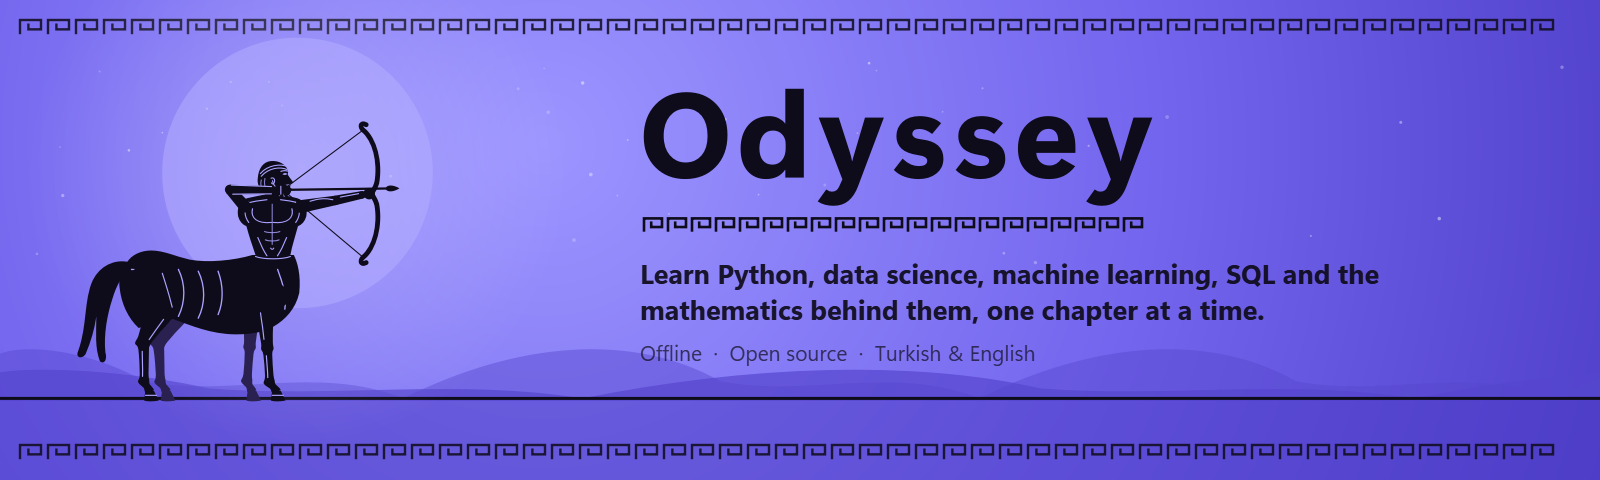
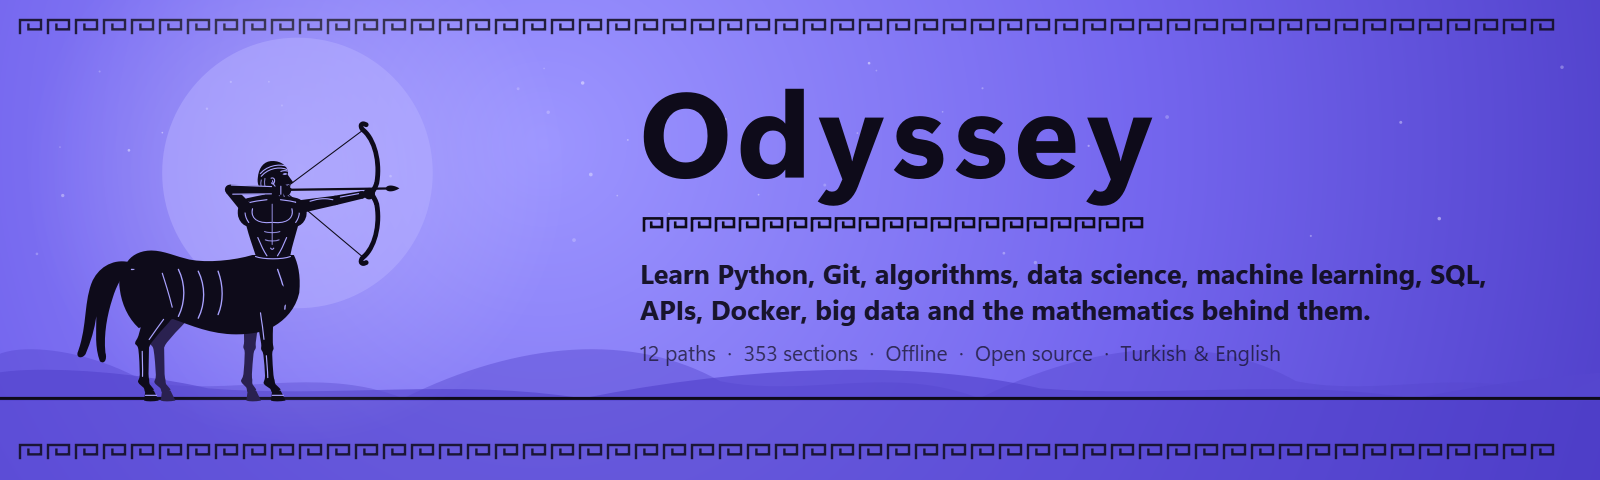
Update README for the Algorithms and Core Libraries paths
New content figures (twelve paths, 353 sections), refreshed banners and all README recordings; the start-up recording no longer shows the open beta label.

Changed region(s): [[0.375, 0.625, 0.875, 0.6875], [0.5, 0.5312, 0.9375, 0.5938], [0.4062, 0.7188, 0.8125, 0.75]]

diff --git a/tools/build_icon.py b/tools/build_icon.py
@@ -57,12 +57,12 @@ DISCORD_COVER = (1024, 576)
 BANNER_DIR = PROJECT_ROOT / "docs" / "media"
 BANNER = (1600, 480)
 BANNER_TEXT = {
-    "en": ("Learn Python, data science, machine learning, SQL and the mathematics "
-           "behind them, one chapter at a time.",
-           "Offline  ·  Open source  ·  Turkish & English"),
-    "tr": ("Python, veri bilimi, makine öğrenmesi, SQL ve arkalarındaki matematik; "
-           "bölüm bölüm, adım adım.",
-           "Çevrimdışı  ·  Açık kaynak  ·  Türkçe ve İngilizce"),
+    "en": ("Learn Python, Git, algorithms, data science, machine learning, SQL, "
+           "APIs, Docker, big data and the mathematics behind them.",
+           "12 paths  ·  353 sections  ·  Offline  ·  Open source  ·  Turkish & English"),
+    "tr": ("Python, Git, algoritmalar, veri bilimi, makine öğrenmesi, SQL, API, "
+           "Docker, büyük veri ve arkalarındaki matematik; adım adım.",
+           "12 patika  ·  353 bölüm  ·  Çevrimdışı  ·  Açık kaynak  ·  Türkçe ve İngilizce"),
 }
 
 

diff --git a/README.tr.md b/README.tr.md
@@ -18,7 +18,7 @@
   <a href="https://github.com/AlicanKaya192/Odyssey/stargazers"><img alt="GitHub yıldızları" src="https://img.shields.io/github/stars/AlicanKaya192/Odyssey?style=for-the-badge&logo=github&color=7466EE&labelColor=1E1A3C"></a>
 </p>
 
-Python, Git, veri bilimi, makine öğrenmesi, SQL, zaman serileri, API, Docker, büyük veri ve bunların arkasındaki matematiği bölüm bölüm öğreten, çevrimdışı çalışan bir masaüstü uygulaması.
+Python, Git, algoritmalar, Python ekosisteminin temel kütüphaneleri, veri bilimi, makine öğrenmesi, SQL, zaman serileri, API, Docker, büyük veri ve bunların arkasındaki matematiği bölüm bölüm öğreten, çevrimdışı çalışan bir masaüstü uygulaması.
 
 Her bölümde konu anlatımı, ders notları, sınav ve kod alıştırmaları var; matematik bölümlerinde alıştırma yerine çizim kâğıdında çözülen problemler var. Bir bölümü tamamlamak için sınavı geçmek ve alıştırmaları çözmek gerekiyor. Kod uygulamanın içinde yazılıyor; program onu çalıştırıyor, ardından çıktısını, oluşturduğu değişkenleri ve tanımladığı fonksiyonları kontrol ediyor. Yapay zeka kullanılmıyor — her kontrol önceden tanımlıdır ve deterministik olarak değerlendirilir, yani aynı kod her zaman aynı sonucu verir.
 
@@ -138,11 +138,11 @@ Denetimi **Ayarlar › Güncelleme** bölümünden kapatabilirsiniz. Kapalıyken
 
 Sürüm `1.0.0`: açık betadan (0.7.1 – 0.9.3) sonraki ilk tam sürüm. Motor — öğrenme yolları, konu anlatımı, sınavlar, alıştırma çalıştırıcısı, ilerleme takibi, güncellemeler — tamam; yeni patikalar `1.x` sürümleriyle gelmeye devam ediyor.
 
-**Bugünkü içerik:** on patika **tamamlandı** — Python Temelleri (on dokuz bölüm; paketler ve ortamlardan JSON'a ve veritabanına), Git (on yedi; ilk commit'ten dallara, GitHub'a ve kaybolanı kurtarmaya), Veri Bilimi (on), Makine Öğrenmesi (on üç), SQL (on altı; SQL Server'ı kurmaktan pencere fonksiyonlarına, dizinlere, görünümlere ve saklı yordamlara), Zaman Serileri (yirmi üç; tarihlerle çalışmaktan tahmine, tahmin aralıklarına ve anomali tespitine), iki modüllü Matematik (Temel Matematik, yirmi sekiz bölüm; Yapay Zekanın Matematiği, otuz iki), iki modüllü API (REST API Kullanmak, on yedi; FastAPI ile REST API Yazmak, on sekiz), Docker (on yedi; imajlardan Compose'a ve bir Python API'sini paketlemeye) ve Büyük Veri (on yedi; belleği ölçmekten Parquet'e, DuckDB'ye, dask'a, Spark'a ve akan veriye). 227 bölüm, 6194 sınav sorusu, 879 alıştırma (85'i Git terminalinde), 300 matematik problemi, 459 ders notu, 164 terimlik bir sözlük ve 50 rozet; tamamı Türkçe ve İngilizce.
+**Bugünkü içerik:** on iki patika **tamamlandı** — Python Temelleri (on dokuz bölüm; paketler ve ortamlardan JSON'a ve veritabanına), Git (on yedi; ilk commit'ten dallara, GitHub'a ve kaybolanı kurtarmaya), üç modüllü Algoritmalar (Temel Algoritmalar ve Veri Yapıları, on yedi bölüm; Algoritma Teknikleri ve Graflar, on yedi; Veri Bilimi ve Makine Öğrenmesi Algoritmaları, yirmi üç; her model NumPy ile sıfırdan yazılıp scikit-learn ile karşılaştırılıyor), dört modüllü Temel Kütüphaneler (Python Kütüphaneleri: Başlangıç, standart kütüphaneyle on yedi bölüm; Python Kütüphaneleri: İleri, on sekiz; Veri Bilimi Kütüphaneleri, on yedi, NumPy, pandas, Matplotlib, seaborn ve SciPy; Makine Öğrenmesi Kütüphaneleri, on yedi, scikit-learn, statsmodels ve LightGBM), Veri Bilimi (on), Makine Öğrenmesi (on üç), SQL (on altı; SQL Server'ı kurmaktan pencere fonksiyonlarına, dizinlere, görünümlere ve saklı yordamlara), Zaman Serileri (yirmi üç; tarihlerle çalışmaktan tahmine, tahmin aralıklarına ve anomali tespitine), iki modüllü Matematik (Temel Matematik, yirmi sekiz bölüm; Yapay Zekanın Matematiği, otuz iki), iki modüllü API (REST API Kullanmak, on yedi; FastAPI ile REST API Yazmak, on sekiz), Docker (on yedi; imajlardan Compose'a ve bir Python API'sini paketlemeye) ve Büyük Veri (on yedi; belleği ölçmekten Parquet'e, DuckDB'ye, dask'a, Spark'a ve akan veriye). 353 bölüm, 9333 sınav sorusu, 1510 alıştırma (85'i Git terminalinde), 300 matematik problemi, 711 ders notu, 267 terimlik bir sözlük ve 77 rozet; tamamı Türkçe ve İngilizce.
 
-**On beş öğrenme patikası** tanımlı: yukarıdaki on patika açık; Doğal Dil İşleme, GenAI ve Prompt Mühendisliği, Algoritmalar, Temel Kütüphaneler ve Sistem Tasarımı içerikleri hazırlanana kadar kilitli görünüyor.
+**On beş öğrenme patikası** tanımlı: yukarıdaki on iki patika açık; Doğal Dil İşleme, GenAI ve Prompt Mühendisliği ve Sistem Tasarımı içerikleri hazırlanana kadar kilitli görünüyor.
 
-**Çalışanlar:** sentor maskotlu açılış animasyonu, öğrenme patikaları, bölüm içi başlık listesi ve okuma takibiyle konu anlatımı, ders notları, süreli sınavlar, Python, SQL, Git, FastAPI ve Docker için otomatik kontrollü alıştırmalar (SQL kendi SQL Server'ınızda çalışıyor ve her deneme geri alınıyor, Git yerleşik bir terminalde, Docker derlemeleri için Docker Desktop gerekiyor), birden fazla dosyadan oluşan alıştırmalar, alıştırma API sunucusu ve tarayıcıda denenebilen canlı FastAPI sunucusu, kademeli ipuçları, hatalı satırı editörde işaretleyen hata açıklamaları, kodunuzu ve örnek çözümü adım adım izleme, derslerin içinde açıklaması görünen terimler sözlüğü, takılınca dersin ilgili kısmına yönlendirme, bildiğiniz bölümleri açan seviye tespit sınavı, çizim kâğıdında çözülen ve adım adım çözüm yolları olan matematik problemleri, önerilen çalışma rotaları, Windows bildirimi olarak gelen seri hatırlatmaları, sırayla açılan bölümler, kalıcı ilerleme kaydı, kendi notlarınız ve genel arama (`Ctrl+K`), kazanınca bir kartla kutlanan 50 rozet, XP, seviyeler ve profilde gösterilebilen unvanlar, Pomodoro ve başka düzenlerle çalışma zamanlayıcısı, alıştırma ve sınavlarda geçmiş denemeler, klavyeyle cevaplanabilen sınavlar, tam ekran okuma odağı, seviyeniz, rozetleriniz ve çalışma takviminizle paylaşım kartı, ilerlemeyi başka bir bilgisayara taşıma ve günlük yedek, alıştırmaların bıraktığı veritabanlarını ve imajları silen Ayarlar › Depolama sayfası, yeni gelenler için tanıtım turu, etkinlik takvimi, kendi fotoğrafınızı seçebildiğiniz profil, Türkçe/İngilizce arayüz ve içerik, açık/koyu tema, uygulama içinden güncelleme, kilidi ve sınav süresini kaldırma seçenekleri.
+**Çalışanlar:** sentor maskotlu açılış animasyonu, öğrenme patikaları, bölüm içi başlık listesi ve okuma takibiyle konu anlatımı, ders notları, süreli sınavlar, Python, SQL, Git, FastAPI ve Docker için otomatik kontrollü alıştırmalar (SQL kendi SQL Server'ınızda çalışıyor ve her deneme geri alınıyor, Git yerleşik bir terminalde, Docker derlemeleri için Docker Desktop gerekiyor), birden fazla dosyadan oluşan alıştırmalar, alıştırma API sunucusu ve tarayıcıda denenebilen canlı FastAPI sunucusu, kademeli ipuçları, hatalı satırı editörde işaretleyen hata açıklamaları, kodunuzu ve örnek çözümü adım adım izleme, derslerin içinde açıklaması görünen terimler sözlüğü, takılınca dersin ilgili kısmına yönlendirme, bildiğiniz bölümleri açan seviye tespit sınavı, çizim kâğıdında çözülen ve adım adım çözüm yolları olan matematik problemleri, önerilen çalışma rotaları, Windows bildirimi olarak gelen seri hatırlatmaları, sırayla açılan bölümler, kalıcı ilerleme kaydı, kendi notlarınız ve genel arama (`Ctrl+K`), kazanınca bir kartla kutlanan 77 rozet, XP, seviyeler ve profilde gösterilebilen unvanlar, Pomodoro ve başka düzenlerle çalışma zamanlayıcısı, alıştırma ve sınavlarda geçmiş denemeler, klavyeyle cevaplanabilen sınavlar, tam ekran okuma odağı, seviyeniz, rozetleriniz ve çalışma takviminizle paylaşım kartı, ilerlemeyi başka bir bilgisayara taşıma ve günlük yedek, alıştırmaların bıraktığı veritabanlarını ve imajları silen Ayarlar › Depolama sayfası, yeni gelenler için tanıtım turu, etkinlik takvimi, kendi fotoğrafınızı seçebildiğiniz profil, Türkçe/İngilizce arayüz ve içerik, açık/koyu tema, uygulama içinden güncelleme, kilidi ve sınav süresini kaldırma seçenekleri.
 
 **Henüz yok:** kalan patikaların içeriği ve macOS sürümü.
 

diff --git a/README.md b/README.md
@@ -18,7 +18,7 @@
   <a href="https://github.com/AlicanKaya192/Odyssey/stargazers"><img alt="GitHub stars" src="https://img.shields.io/github/stars/AlicanKaya192/Odyssey?style=for-the-badge&logo=github&color=7466EE&labelColor=1E1A3C"></a>
 </p>
 
-An offline desktop application that teaches Python, Git, data science, machine learning, SQL, time series, APIs, Docker, big data and the mathematics behind them, one section at a time.
+An offline desktop application that teaches Python, Git, algorithms, the core libraries of the Python ecosystem, data science, machine learning, SQL, time series, APIs, Docker, big data and the mathematics behind them, one section at a time.
 
 Every section has a lesson, lecture notes, a quiz and coding exercises; mathematics sections have problems instead, worked on a drawing sheet. To complete a section you need to pass the quiz and solve the exercises. You write the code inside the application; it runs your code, then checks the output, the variables it created and the functions it defined. No artificial intelligence is involved — every check is defined in advance and evaluated deterministically, so the same code always produces the same result.
 
@@ -138,11 +138,11 @@ You can turn the check off under **Settings › Updates**. With it off, the appl
 
 Version `1.0.0`, the first full release after the open beta (0.7.1 – 0.9.3). The engine — learning paths, lessons, quizzes, the exercise runner, progress tracking, updates — is complete; new paths keep arriving as `1.x` releases.
 
-**Content today:** ten paths are **complete** — Python Fundamentals (nineteen sections, from packages and environments to JSON and databases), Git (seventeen, from the first commit to branches, GitHub and recovering lost work), Data Science (ten), Machine Learning (thirteen), SQL (sixteen, from installing SQL Server to window functions, indexes, views and stored procedures), Time Series (twenty-three, from working with dates to forecasting, prediction intervals and anomaly detection), Mathematics in two modules (Foundational Mathematics, twenty-eight sections; The Mathematics of AI, thirty-two), API in two modules (Using REST APIs, seventeen; Writing REST APIs with FastAPI, eighteen), Docker (seventeen, from images to Compose and packaging a Python API) and Big Data (seventeen, from measuring memory to Parquet, DuckDB, dask, Spark and streaming data). 227 sections, 6194 quiz questions, 879 exercises (85 of them in the Git terminal), 300 mathematics problems, 459 lecture notes, a glossary of 164 terms and 50 badges, all of it in both Turkish and English.
+**Content today:** twelve paths are **complete** — Python Fundamentals (nineteen sections, from packages and environments to JSON and databases), Git (seventeen, from the first commit to branches, GitHub and recovering lost work), Algorithms in three modules (Core Algorithms and Data Structures, seventeen sections; Algorithm Techniques and Graphs, seventeen; Data Science and Machine Learning Algorithms, twenty-three, where each model is written from scratch with NumPy and compared with scikit-learn), Core Libraries in four modules (Python Libraries: Beginner, seventeen sections on the standard library; Python Libraries: Advanced, eighteen; Data Science Libraries, seventeen, on NumPy, pandas, Matplotlib, seaborn and SciPy; Machine Learning Libraries, seventeen, on scikit-learn, statsmodels and LightGBM), Data Science (ten), Machine Learning (thirteen), SQL (sixteen, from installing SQL Server to window functions, indexes, views and stored procedures), Time Series (twenty-three, from working with dates to forecasting, prediction intervals and anomaly detection), Mathematics in two modules (Foundational Mathematics, twenty-eight sections; The Mathematics of AI, thirty-two), API in two modules (Using REST APIs, seventeen; Writing REST APIs with FastAPI, eighteen), Docker (seventeen, from images to Compose and packaging a Python API) and Big Data (seventeen, from measuring memory to Parquet, DuckDB, dask, Spark and streaming data). 353 sections, 9333 quiz questions, 1510 exercises (85 of them in the Git terminal), 300 mathematics problems, 711 lecture notes, a glossary of 267 terms and 77 badges, all of it in both Turkish and English.
 
-**Fifteen learning paths** are defined: the ten above are open, while Natural Language Processing, GenAI & Prompt Engineering, Algorithms, Core Libraries and System Design are visible but locked until their content is written.
+**Fifteen learning paths** are defined: the twelve above are open, while Natural Language Processing, GenAI & Prompt Engineering and System Design are visible but locked until their content is written.
 
-**Working:** an animated start-up with the centaur mascot, learning paths, lessons with a section outline and reading progress, lecture notes, timed quizzes, exercises in Python, SQL, Git, FastAPI and Docker with automatic checking (SQL runs on your own SQL Server and every run is rolled back, Git in a built-in terminal, Docker builds need Docker Desktop), exercises that span several files, a practice API server and a live FastAPI server you can try in the browser, graded hints, error explanations with the failing line marked in the editor, step-by-step tracing of your code and of a sample solution, a glossary with explanations right in the lessons, a "Stuck?" pointer back to the lesson, a placement test that unlocks the sections you already know, mathematics problems on a drawing sheet with step-by-step solution paths, suggested study routes, streak reminders as Windows notifications, sections that unlock in order, persistent progress, your own notes with a global search (`Ctrl+K`), 50 badges celebrated with a card as you earn them, XP, levels and titles you can show on your profile, a study timer with Pomodoro and other routines, a history of your past attempts in exercises and quizzes, quizzes you can answer from the keyboard, a full-screen reading mode, a share card with your level, badges and study calendar, moving your progress to another computer and a daily backup, a Storage page in Settings that removes the databases and images exercises leave behind, a guided tour for new users, an activity calendar, a profile with your own photo, Turkish/English interface and content, light and dark themes, in-app updates, and options to remove the section lock and the quiz time limit.
+**Working:** an animated start-up with the centaur mascot, learning paths, lessons with a section outline and reading progress, lecture notes, timed quizzes, exercises in Python, SQL, Git, FastAPI and Docker with automatic checking (SQL runs on your own SQL Server and every run is rolled back, Git in a built-in terminal, Docker builds need Docker Desktop), exercises that span several files, a practice API server and a live FastAPI server you can try in the browser, graded hints, error explanations with the failing line marked in the editor, step-by-step tracing of your code and of a sample solution, a glossary with explanations right in the lessons, a "Stuck?" pointer back to the lesson, a placement test that unlocks the sections you already know, mathematics problems on a drawing sheet with step-by-step solution paths, suggested study routes, streak reminders as Windows notifications, sections that unlock in order, persistent progress, your own notes with a global search (`Ctrl+K`), 77 badges celebrated with a card as you earn them, XP, levels and titles you can show on your profile, a study timer with Pomodoro and other routines, a history of your past attempts in exercises and quizzes, quizzes you can answer from the keyboard, a full-screen reading mode, a share card with your level, badges and study calendar, moving your progress to another computer and a daily backup, a Storage page in Settings that removes the databases and images exercises leave behind, a guided tour for new users, an activity calendar, a profile with your own photo, Turkish/English interface and content, light and dark themes, in-app updates, and options to remove the section lock and the quiz time limit.
 
 **Not there yet:** the content for the remaining paths, and a macOS version.
 
